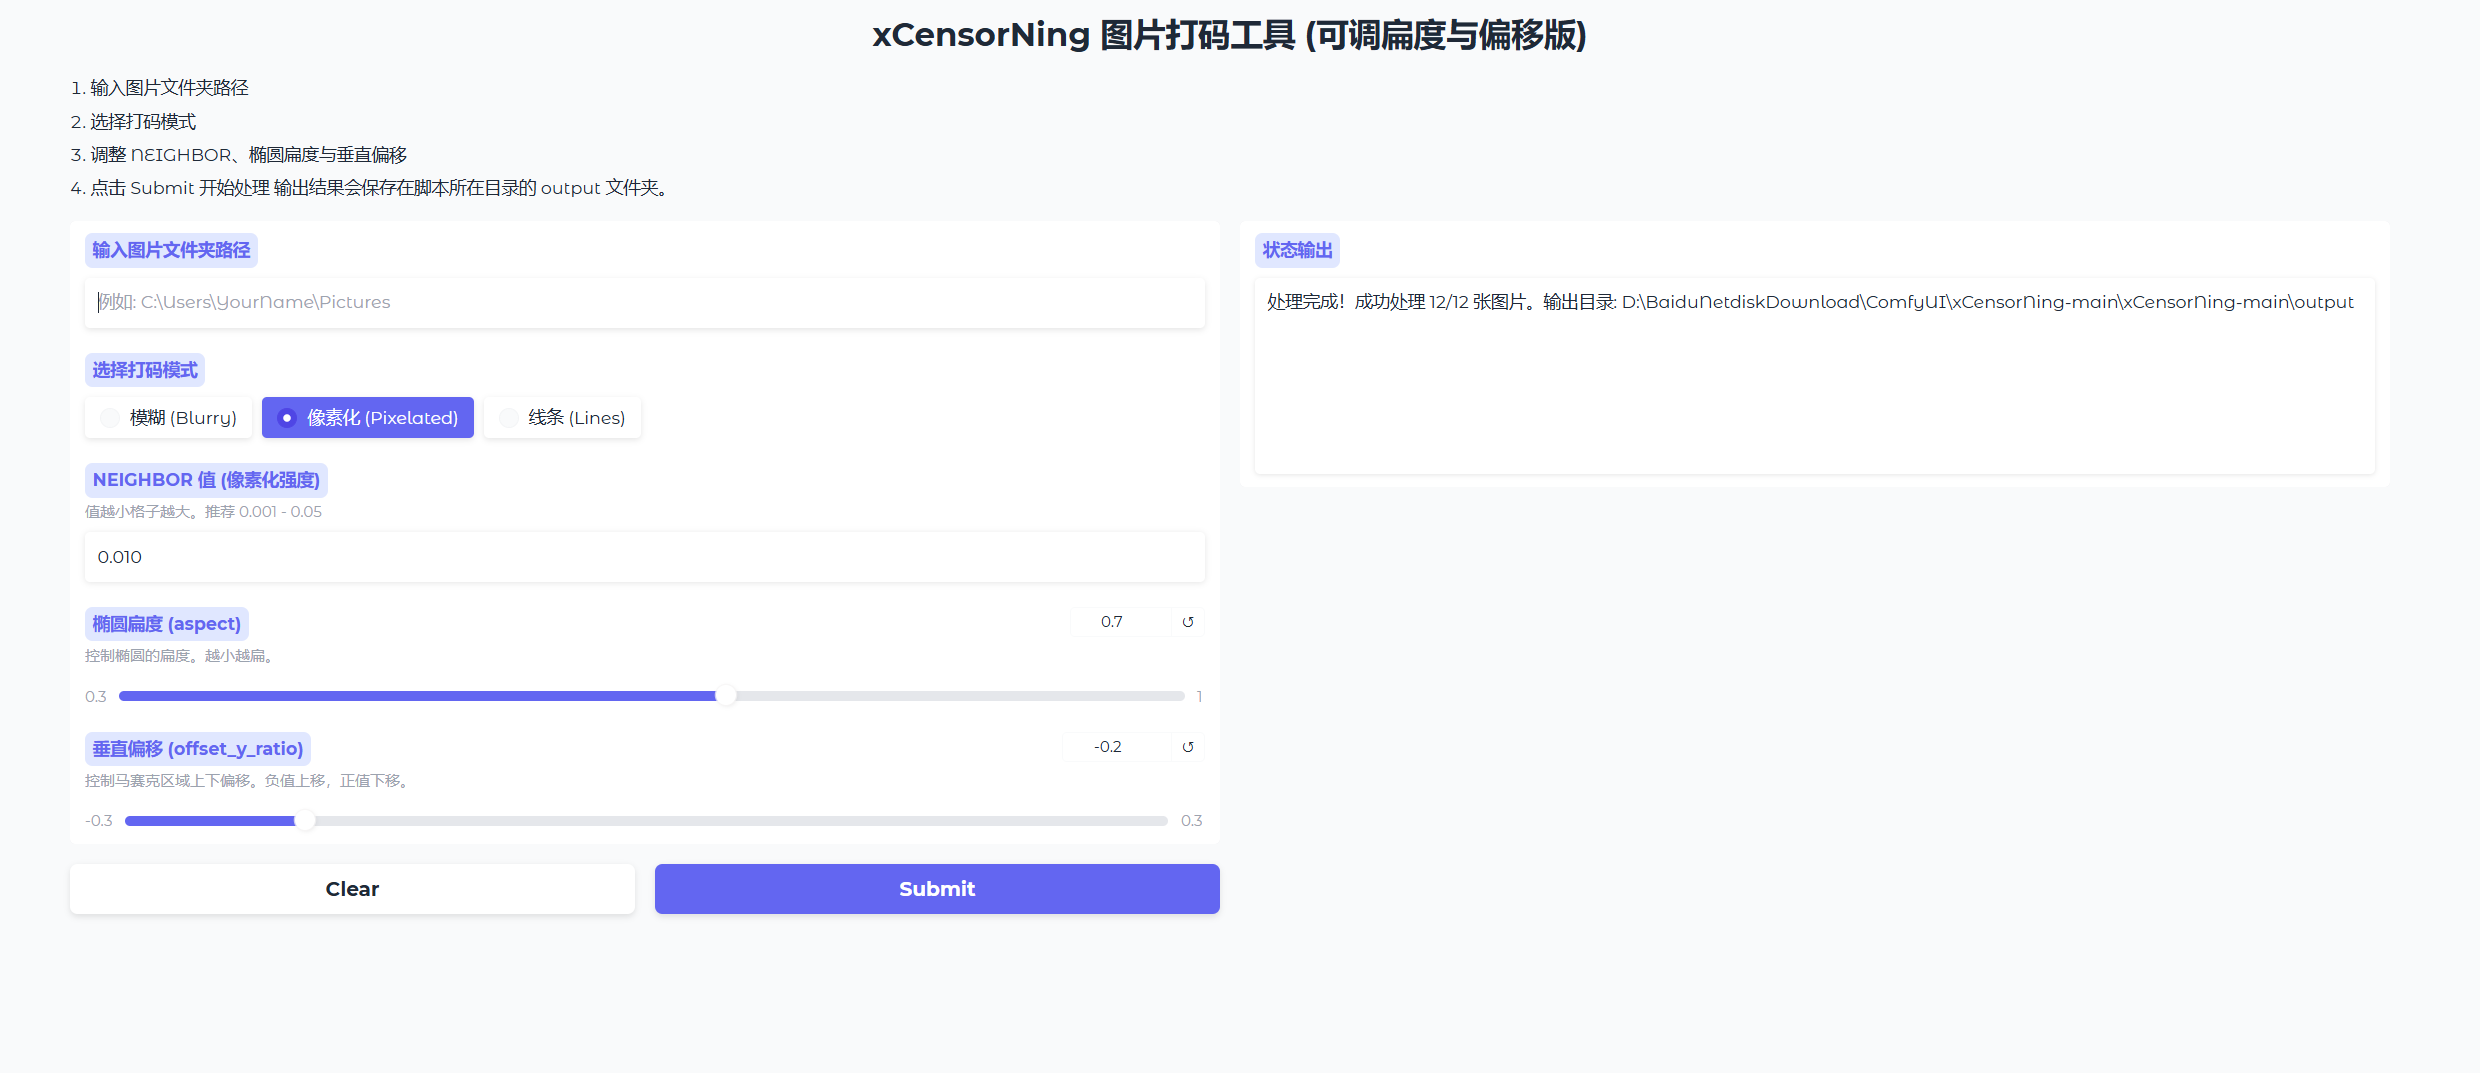
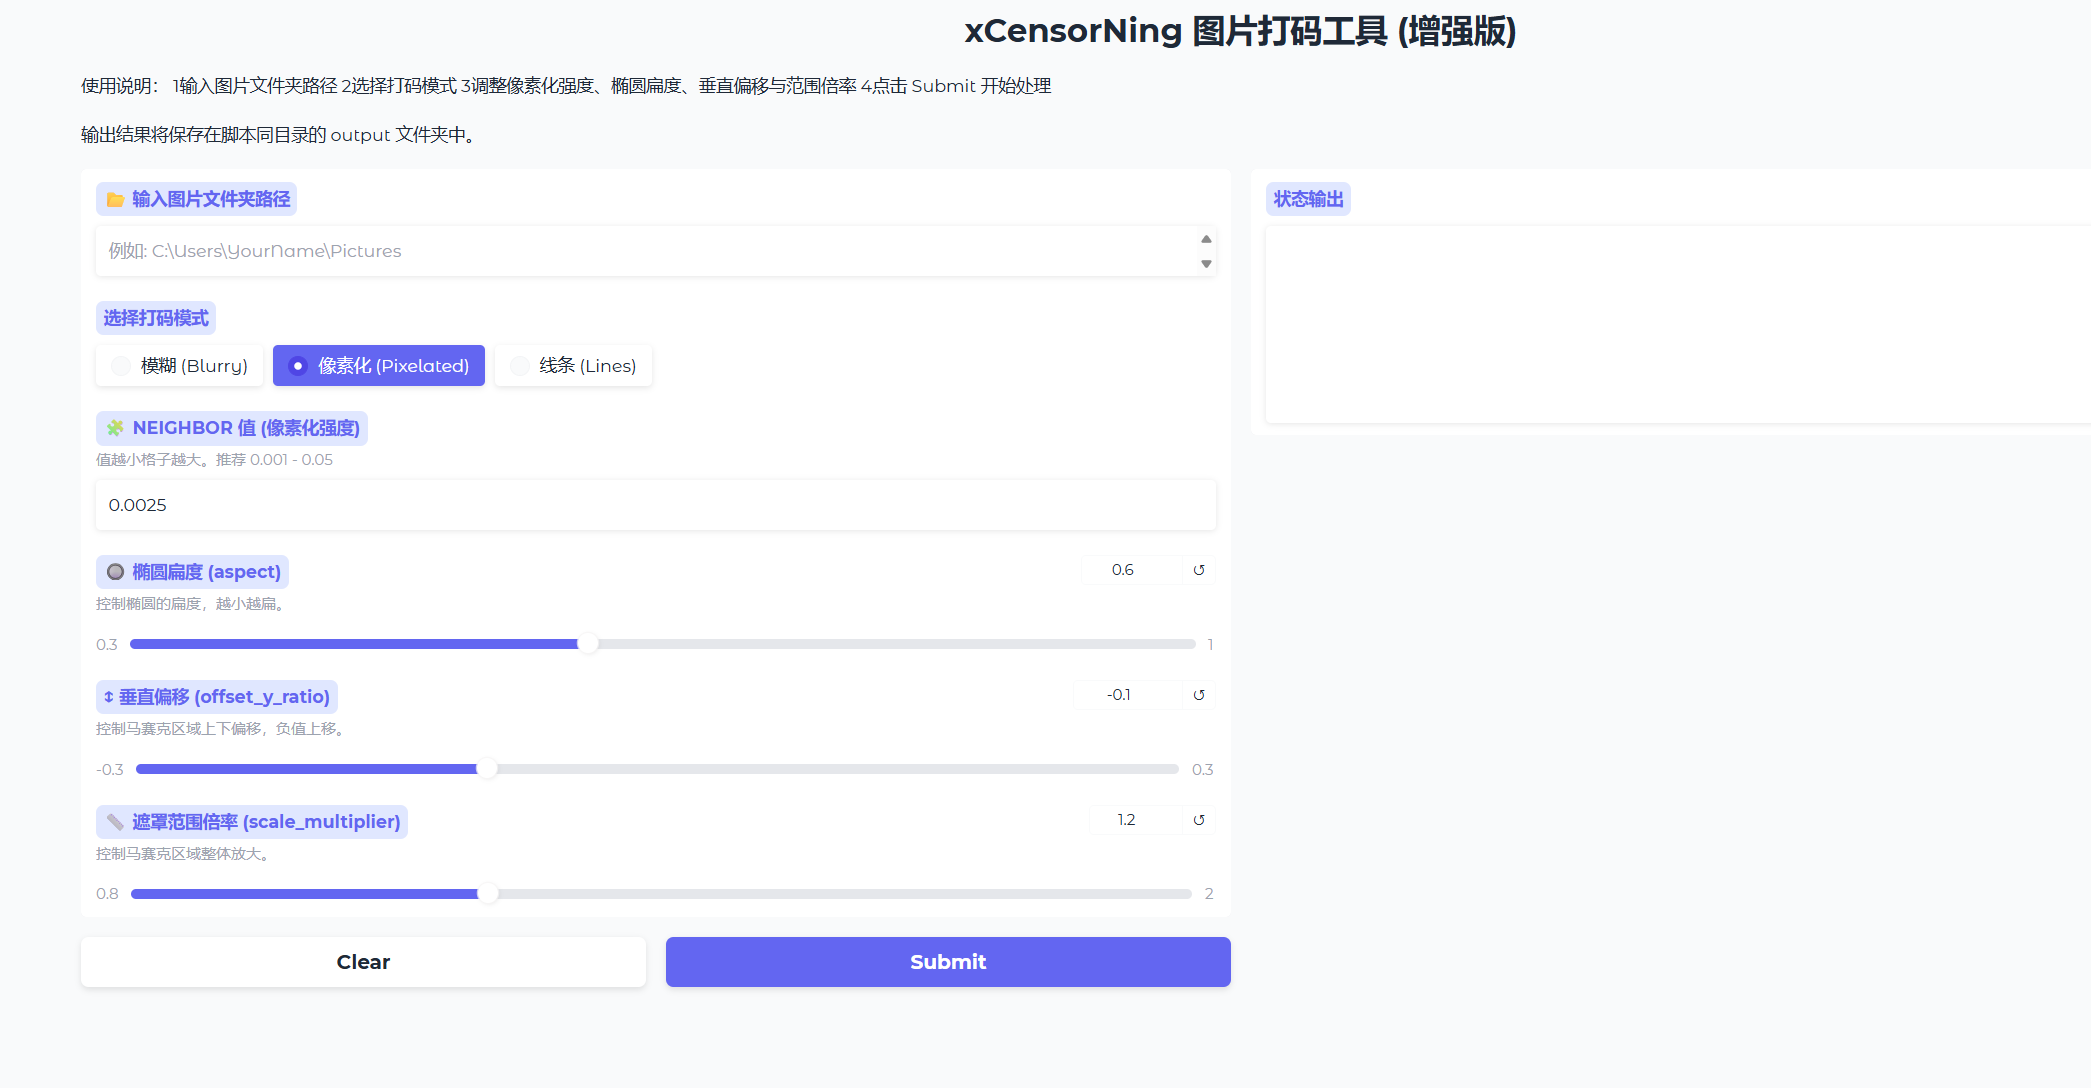
Add files via upload

diff --git a/xCensorNing.py b/xCensorNing.py
@@ -9,7 +9,12 @@ from loguru import logger
 from pathlib import Path
 
 """
-xCensorNing 打码工具 - 可调椭圆扁度与垂直偏移版
+xCensorNing 打码工具 - 增强版
+支持：
+✅ 椭圆扁度调节
+✅ 垂直偏移调节
+✅ 遮罩范围放大倍率
+✅ 马赛克颗粒粗度可控
 """
 
 # -------------------- #
@@ -66,7 +71,7 @@ try:
 
 except ModuleNotFoundError:
     from nudenet import NudeDetector
-    logger.debug("使用 nudenet 进行图像检测")
+    logger.debug("使用 NudeNet 进行图像检测")
 
     def detector(image):
         nude_detector = NudeDetector()
@@ -106,17 +111,19 @@ def mosaic_blurry(img):
 
 
 # -------------------- #
-# 像素化椭圆模式（支持扁度与垂直偏移）
+# 像素化椭圆模式（可调扁度、偏移与范围）
 # -------------------- #
-def _mosaic_pixel_ellipse(image, box, block_size, scale=0.8, aspect=0.6, offset_y_ratio=-0.1):
+def _mosaic_pixel_ellipse(image, box, block_size,
+                          scale=0.8, aspect=0.6,
+                          offset_y_ratio=-0.1,
+                          scale_multiplier=1.2):
     """
     对检测到的区域应用椭圆像素化马赛克。
-    :param image: PIL.Image
-    :param box: [x, y, w, h]
-    :param block_size: 马赛克像素块大小
-    :param scale: 椭圆宽高缩放比例 (越小范围越小)
-    :param aspect: 椭圆高度压缩比例 (越小越扁)
-    :param offset_y_ratio: 垂直偏移比例，负值上移，正值下移
+    - block_size: 马赛克颗粒大小
+    - scale: 椭圆基础缩放比例
+    - aspect: 椭圆高度压缩比例（越小越扁）
+    - offset_y_ratio: 垂直偏移比例（负值上移）
+    - scale_multiplier: 遮罩范围倍率（越大覆盖越多）
     """
     x, y, w, h = box
     region = (x, y, x + w, y + h)
@@ -131,8 +138,8 @@ def _mosaic_pixel_ellipse(image, box, block_size, scale=0.8, aspect=0.6, offset_
     mask = Image.new("L", cropped.size, 0)
     draw = ImageDraw.Draw(mask)
 
-    ellipse_w = int(w * scale)
-    ellipse_h = int(h * scale * aspect)
+    ellipse_w = int(w * scale * scale_multiplier)
+    ellipse_h = int(h * scale * aspect * scale_multiplier)
     offset_x = (w - ellipse_w) // 2
     offset_y = int((h - ellipse_h) // 2 + h * offset_y_ratio)
 
@@ -145,7 +152,7 @@ def _mosaic_pixel_ellipse(image, box, block_size, scale=0.8, aspect=0.6, offset_
     return image
 
 
-def mosaic_pixel(img_path, aspect=0.6, offset_y_ratio=-0.1):
+def mosaic_pixel(img_path, aspect=0.6, offset_y_ratio=-0.1, scale_multiplier=1.2):
     img_path = str(img_path)
     box_list = detector(img_path)
 
@@ -155,8 +162,11 @@ def mosaic_pixel(img_path, aspect=0.6, offset_y_ratio=-0.1):
                 pil_img.width * NEIGHBOR if pil_img.width > pil_img.height else pil_img.height * NEIGHBOR
             )
             image = _mosaic_pixel_ellipse(
-                pil_img, box, neighbor, scale=0.8,
-                aspect=aspect, offset_y_ratio=offset_y_ratio
+                pil_img, box, neighbor,
+                scale=0.8,
+                aspect=aspect,
+                offset_y_ratio=offset_y_ratio,
+                scale_multiplier=scale_multiplier
             )
             image.save(img_path)
 
@@ -181,19 +191,22 @@ def mosaic_lines(img_path):
 # -------------------- #
 # 主处理函数
 # -------------------- #
-def process_images_gradio(input_folder_path, mosaic_type, neighbor_value_ui, aspect_value_ui, offset_value_ui):
+def process_images_gradio(input_folder_path, mosaic_type,
+                          neighbor_value_ui, aspect_value_ui,
+                          offset_value_ui, scale_multiplier_ui):
     global NEIGHBOR
     NEIGHBOR = float(neighbor_value_ui)
     aspect_value_ui = float(aspect_value_ui)
     offset_value_ui = float(offset_value_ui)
-    logger.info(f"参数：NEIGHBOR={NEIGHBOR}, aspect={aspect_value_ui}, offset_y_ratio={offset_value_ui}")
+    scale_multiplier_ui = float(scale_multiplier_ui)
+    logger.info(f"参数：NEIGHBOR={NEIGHBOR}, aspect={aspect_value_ui}, offset={offset_value_ui}, scale_mul={scale_multiplier_ui}")
 
     if not input_folder_path:
-        return "错误：请输入文件夹路径。"
+        return "❌ 错误：请输入文件夹路径。"
 
     input_path = Path(input_folder_path)
     if not input_path.is_dir():
-        return f"错误：'{input_folder_path}' 不是有效目录。"
+        return f"❌ 错误：'{input_folder_path}' 不是有效目录。"
 
     output_folder = Path("./output")
     output_folder.mkdir(parents=True, exist_ok=True)
@@ -206,7 +219,7 @@ def process_images_gradio(input_folder_path, mosaic_type, neighbor_value_ui, asp
                        if f.lower().endswith(('.png', '.jpg', '.jpeg', '.bmp', '.gif', '.webp'))]
 
         if not image_files:
-            return "信息：指定文件夹中没有找到支持的图片文件。"
+            return "ℹ 指定文件夹中没有找到图片文件。"
 
         for filename in image_files:
             original_img_path = input_path / filename
@@ -221,7 +234,8 @@ def process_images_gradio(input_folder_path, mosaic_type, neighbor_value_ui, asp
                 elif mosaic_type == "像素化 (Pixelated)":
                     mosaic_pixel(str(output_img_path),
                                  aspect=aspect_value_ui,
-                                 offset_y_ratio=offset_value_ui)
+                                 offset_y_ratio=offset_value_ui,
+                                 scale_multiplier=scale_multiplier_ui)
                 elif mosaic_type == "线条 (Lines)":
                     mosaic_lines(str(output_img_path))
 
@@ -230,7 +244,7 @@ def process_images_gradio(input_folder_path, mosaic_type, neighbor_value_ui, asp
                 logger.error(f"处理文件 '{filename}' 时出错: {e}")
                 error_messages.append(f"{filename}: {str(e)}")
 
-        status_message = f"处理完成！成功处理 {processed_files_count}/{len(image_files)} 张图片。输出目录: {output_folder.resolve()}"
+        status_message = f"处理完成！成功处理 {processed_files_count}/{len(image_files)} 张图片。\n输出目录: {output_folder.resolve()}"
         if error_messages:
             status_message += "\n错误详情:\n" + "\n".join(error_messages)
         return status_message
@@ -247,30 +261,33 @@ if __name__ == "__main__":
     iface = gr.Interface(
         fn=process_images_gradio,
         inputs=[
-            gr.Textbox(label="输入图片文件夹路径", placeholder="例如: C:\\Users\\YourName\\Pictures"),
+            gr.Textbox(label="📂 输入图片文件夹路径", placeholder="例如: C:\\Users\\YourName\\Pictures"),
             gr.Radio(choices=["模糊 (Blurry)", "像素化 (Pixelated)", "线条 (Lines)"],
                      label="选择打码模式", value="像素化 (Pixelated)"),
-            gr.Number(label="NEIGHBOR 值 (像素化强度)", value=NEIGHBOR,
+            gr.Number(label="🧩 NEIGHBOR 值 (像素化强度)", value=NEIGHBOR,
                       minimum=0.0001, maximum=0.1, step=0.0001,
                       info="值越小格子越大。推荐 0.001 - 0.05"),
-            gr.Slider(label="椭圆扁度 (aspect)", minimum=0.3, maximum=1.0, step=0.05, value=0.6,
-                      info="控制椭圆的扁度。越小越扁。"),
-            gr.Slider(label="垂直偏移 (offset_y_ratio)", minimum=-0.3, maximum=0.3, step=0.01, value=-0.1,
-                      info="控制马赛克区域上下偏移。负值上移，正值下移。")
+            gr.Slider(label="🔘 椭圆扁度 (aspect)", minimum=0.3, maximum=1.0, step=0.05, value=0.6,
+                      info="控制椭圆的扁度，越小越扁。"),
+            gr.Slider(label="↕ 垂直偏移 (offset_y_ratio)", minimum=-0.3, maximum=0.3, step=0.01, value=-0.1,
+                      info="控制马赛克区域上下偏移，负值上移。"),
+            gr.Slider(label="📏 遮罩范围倍率 (scale_multiplier)", minimum=0.8, maximum=2.0, step=0.1, value=1.2,
+                      info="控制马赛克区域整体放大。")
         ],
         outputs=gr.Textbox(label="状态输出", lines=7, interactive=False),
-        title="xCensorNing 图片打码工具 (可调扁度与偏移版)",
+        title="xCensorNing 图片打码工具 (增强版)",
         description=(
-            "1. 输入图片文件夹路径\n"
-            "2. 选择打码模式\n"
-            "3. 调整 NEIGHBOR、椭圆扁度与垂直偏移\n"
-            "4. 点击 Submit 开始处理\n"
-            "输出结果会保存在脚本所在目录的 output 文件夹。"
+            "使用说明：\n"
+            "1输入图片文件夹路径\n"
+            "2选择打码模式\n"
+            "3调整像素化强度、椭圆扁度、垂直偏移与范围倍率\n"
+            "4点击 Submit 开始处理\n\n"
+            "输出结果将保存在脚本同目录的 output 文件夹中。"
         ),
         allow_flagging="never",
         theme=gr.themes.Soft(),
         live=False
     )
 
-    logger.info("启动 Gradio 界面，请在浏览器中打开 http://127.0.0.1:2333")
+    logger.info("🚀 启动 Gradio 界面：http://127.0.0.1:2333")
     iface.launch(server_name="127.0.0.1", server_port=2333)
